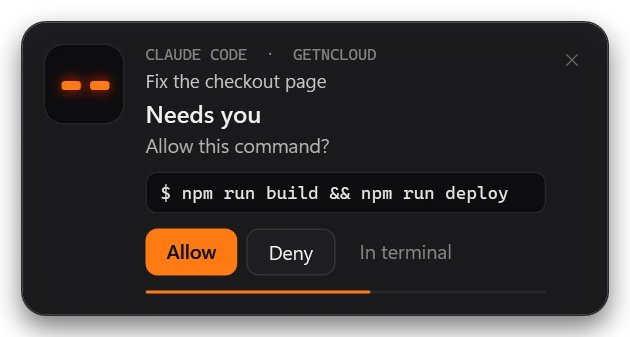
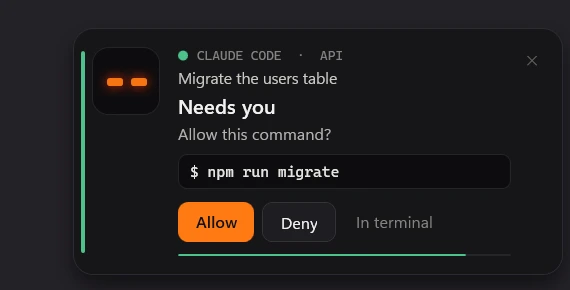
README: real screenshots of the card, the agent bar and the settings

diff --git a/README.md b/README.md
@@ -5,6 +5,8 @@ Stop babysitting the terminal. **Blink** plays a soft sound and shows a small ca
 - 🟠 **needs you**: a permission prompt ("Allow this command?") or a question;
 - 🔵 **is done** with a long turn.
 
+<p align="center"><img src="docs/card_allow.webp" width="420" alt="The Blink card with Allow and Deny"></p>
+
 On Windows the card is Blink's own: two eyes that breathe orange while the agent waits and blink blue when it is done, the agent, the project and the session name, the exact command it wants to run, and **Allow / Deny right on the card** (quick replies, only for commands the card shows in full). It never steals focus. On a Mac with a notch it grows out of the notch (beta: built on first use with the Xcode command line tools, otherwise a regular notification). On Linux it uses the system notification.
 
 Smart about it: it rings once per prompt (no double pings), stays quiet after quick answers you were watching anyway (finished in under 30 s), and skips the "still waiting" reminder right after a "done".
@@ -12,6 +14,8 @@ Smart about it: it rings once per prompt (no double pings), stays quiet after qu
 No dependencies, no network, no telemetry. A shell script plus, on Windows, one PowerShell helper you can read.
 
 ## Many agents at once
+
+<p align="center"><img src="docs/bar_list.webp" width="520" alt="The agent bar with four agents, each in its own colour"></p>
 
 Run as many agents as you like. Each one gets its own colour, and a small bar at the top of the screen shows one dot per agent: it breathes when that agent needs you and fades when it is done. Hover to see them all, what each one is doing and for how long, and answer from the list. Click a dot to change the colour; it stays with that project.
 
@@ -35,6 +39,8 @@ Then `/blink:test` to see and hear both cards, `/blink:settings` to tune it, `/b
 Using the Claude desktop app? Turn its own banners off in Settings → Claude Code → Notifications, so only Blink pops up.
 
 ## Settings
+
+<p align="center"><img src="docs/settings_agents.webp" width="720" alt="Blink settings: agent bar"></p>
 
 `/blink:settings` opens the settings window on Windows, also in Start as **Blink**. It saves as you go and shows a live preview of the card. Per agent: what to be called for (permission prompts, questions, finishing a task and how long it must have worked), the sound (Marimba, Soft tones, Desk bell, your Windows sounds, your own .wav or .mp3, or none) and the Allow / Deny buttons with how long to wait for a click. For the card: on or sound only, top right, top center or bottom right, how long it stays, and hiding the command while you stream. Volume and quiet hours.
 
